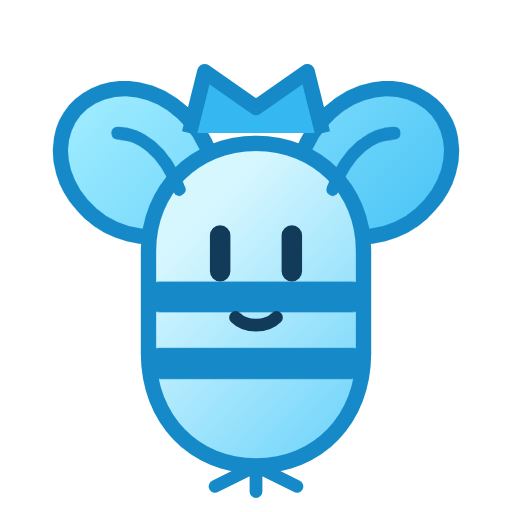
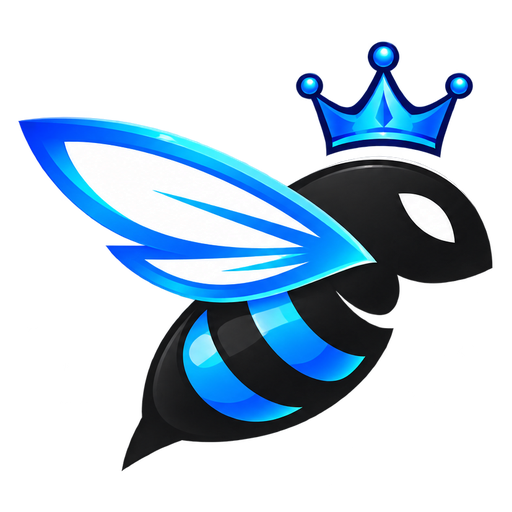
Expand Queenify landing and apply brand assets

diff --git a/src/pages/Landing.tsx b/src/pages/Landing.tsx
@@ -10,8 +10,9 @@ import {
   Sparkles, Smartphone, MessageCircle, Megaphone, Menu, X,
   TrendingUp, BarChart3, Globe, Bot, Rocket, ArrowRight,
   CheckCircle2, Play, Target, Layers, RefreshCcw, Gauge,
+  ShieldCheck, CircleDashed, CircleAlert, WalletCards,
 } from "lucide-react";
-import queenifyBee from "@/assets/queenify-bee-blue.svg";
+import queenifyBee from "@/assets/queenify-bee-blue.png";
 import dashboardMockup from "@/assets/dashboard-mockup.jpg";
 import mobileMockup from "@/assets/mobile-mockup.jpg";
 
@@ -126,11 +127,29 @@ const faqs = [
 ];
 
 const navLinks = [
+  { label: "Como funciona", href: "#como-funciona" },
   { label: "Recursos", href: "#features" },
+  { label: "Simulador", href: "#simulador" },
+  { label: "Integrações", href: "#integracoes" },
   { label: "Taxas", href: "#pricing" },
   { label: "FAQ", href: "#faq" },
   { label: "Ajuda", href: "/ajuda" },
   { label: "Sobre nós", href: "/sobre" },
+];
+
+const workflowSteps = [
+  { title: "Organize o produto", desc: "Reúna nome, descrição, materiais de entrega e informações que o cliente precisa antes de comprar.", icon: Layers },
+  { title: "Prepare a oferta", desc: "Revise preço, comunicação e apresentação. As opções disponíveis podem variar durante a prévia.", icon: PaintBucket },
+  { title: "Valide o pagamento", desc: "Conecte um provedor e teste aprovação, falha, reembolso e notificações antes de aceitar vendas reais.", icon: WalletCards },
+  { title: "Acompanhe os dados", desc: "Quando os eventos estiverem conectados, use os registros para entender conversão e melhorar a oferta.", icon: BarChart3 },
+];
+
+const integrationStatus = [
+  { name: "Supabase Auth", status: "Configurado para a prévia", detail: "Login disponível. Recuperação de conta e regras de acesso ainda precisam de validação completa.", icon: ShieldCheck, tone: "ready" },
+  { name: "Pagamentos", status: "Pendente", detail: "Falta concluir a configuração do provedor e testar o ciclo de cobrança, reembolso e repasse.", icon: WalletCards, tone: "pending" },
+  { name: "Meta Pixel e TikTok", status: "Em preparação", detail: "Dependem de credenciais, eventos corretos e validação no ambiente de cada plataforma.", icon: Target, tone: "pending" },
+  { name: "Google Ads", status: "Pausado", detail: "A integração deve permanecer desativada até configurar e validar o envio de conversões.", icon: CircleAlert, tone: "paused" },
+  { name: "QueenIA", status: "Pendente", detail: "A interface existe; respostas automáticas dependem da publicação da função e da chave do provedor de IA.", icon: Bot, tone: "pending" },
 ];
 
 /* ─── Parallax hook for sections ─── */
@@ -888,6 +907,8 @@ const Landing = () => {
   const { session, loading } = useAuth();
   const [openFaq, setOpenFaq] = useState<number | null>(null);
   const [mobileMenuOpen, setMobileMenuOpen] = useState(false);
+  const [simulatorPrice, setSimulatorPrice] = useState("297");
+  const [simulatorOrders, setSimulatorOrders] = useState("20");
   const heroRef = useRef<HTMLElement>(null);
   const { scrollYProgress: heroScroll } = useScroll({ target: heroRef, offset: ["start start", "end start"] });
   const heroY = useTransform(heroScroll, [0, 1], [0, 150]);
@@ -900,6 +921,10 @@ const Landing = () => {
     "Organize seus produtos digitais.",
     "Acompanhe os registros da conta.",
   ], 70, 35, 2200);
+  const safePrice = Math.min(Math.max(Number(simulatorPrice) || 0, 0), 1_000_000);
+  const safeOrders = Math.min(Math.max(Number(simulatorOrders) || 0, 0), 1_000_000);
+  const estimatedGross = safePrice * safeOrders;
+  const formattedGross = new Intl.NumberFormat("pt-BR", { style: "currency", currency: "BRL" }).format(estimatedGross);
 
   // Parallax refs for sections
   const whyParallax = useParallax(60);
@@ -1111,6 +1136,122 @@ const Landing = () => {
             <CinematicShowcase />
           </div>
         </motion.div>
+      </section>
+
+      {/* ─── How Queenify is intended to fit the creator workflow ─── */}
+      <section id="como-funciona" className="section-light py-20 sm:py-28 px-4 border-t border-border relative">
+        <div className="max-w-7xl mx-auto relative z-10">
+          <motion.div initial="hidden" whileInView="visible" viewport={{ once: true, amount: 0.15 }} variants={stagger}>
+            <motion.div variants={fadeUp} className="text-center max-w-3xl mx-auto mb-14">
+              <span className="text-xs font-bold uppercase tracking-widest text-primary mb-4 block">Um caminho claro para o produtor</span>
+              <h2 className="text-3xl sm:text-4xl lg:text-5xl font-display font-bold">Da ideia à operação, em etapas</h2>
+              <p className="text-muted-foreground mt-4 leading-relaxed">
+                Este é o fluxo que a Queenify está sendo preparada para apoiar. As etapas de cobrança e acompanhamento integrado só estarão prontas após as conexões e testes indicados abaixo.
+              </p>
+            </motion.div>
+            <div className="grid grid-cols-1 sm:grid-cols-2 xl:grid-cols-4 gap-4">
+              {workflowSteps.map((step, index) => (
+                <motion.article key={step.title} variants={fadeUp} className="glass-card p-6 relative overflow-hidden group hover:border-primary/35 transition-colors">
+                  <div className="flex items-center justify-between mb-6">
+                    <div className="w-11 h-11 rounded-xl bg-primary/10 flex items-center justify-center text-primary group-hover:scale-105 transition-transform">
+                      <step.icon className="w-5 h-5" />
+                    </div>
+                    <span className="text-xs font-bold tracking-[0.18em] text-muted-foreground">0{index + 1}</span>
+                  </div>
+                  <h3 className="font-display text-lg font-bold mb-2">{step.title}</h3>
+                  <p className="text-sm text-muted-foreground leading-relaxed">{step.desc}</p>
+                </motion.article>
+              ))}
+            </div>
+            <motion.div variants={fadeUp} className="mt-7 flex flex-col sm:flex-row items-center justify-between gap-4 rounded-2xl border border-primary/20 bg-primary/[0.05] p-5 sm:px-7">
+              <div className="flex items-start gap-3">
+                <CircleAlert className="w-5 h-5 text-primary shrink-0 mt-0.5" />
+                <p className="text-sm text-muted-foreground"><strong className="text-foreground">Prévia em evolução:</strong> conheça as telas, mas não aceite pagamentos reais até que o provedor esteja ativo e validado.</p>
+              </div>
+              <button onClick={() => document.getElementById("integracoes")?.scrollIntoView({ behavior: "smooth" })} className="text-sm font-semibold text-primary hover:underline shrink-0">
+                Ver integrações <ArrowRight className="w-4 h-4 inline ml-1" />
+              </button>
+            </motion.div>
+          </motion.div>
+        </div>
+      </section>
+
+      {/* ─── Gross revenue estimator ─── */}
+      <section id="simulador" className="py-20 sm:py-28 px-4 border-t border-border relative overflow-hidden">
+        <div aria-hidden className="absolute -top-24 right-0 w-[420px] h-[420px] rounded-full bg-primary/[0.08] blur-[130px] pointer-events-none" />
+        <div className="max-w-6xl mx-auto relative z-10">
+          <div className="grid lg:grid-cols-[1fr_0.9fr] gap-10 lg:gap-16 items-center">
+            <motion.div initial="hidden" whileInView="visible" viewport={{ once: true, amount: 0.2 }} variants={stagger}>
+              <motion.span variants={fadeUp} className="text-xs font-bold uppercase tracking-widest text-primary mb-4 block">Ferramenta interativa</motion.span>
+              <motion.h2 variants={fadeUp} className="text-3xl sm:text-4xl lg:text-5xl font-display font-bold leading-tight">Faça uma conta rápida para sua oferta</motion.h2>
+              <motion.p variants={fadeUp} className="text-muted-foreground mt-4 leading-relaxed max-w-xl">
+                Ajuste o preço e a quantidade hipotética de pedidos para visualizar o faturamento bruto. É uma simulação matemática, sem previsão de vendas e sem descontar taxas, reembolsos, impostos ou outros custos.
+              </motion.p>
+              <motion.div variants={fadeUp} className="mt-7 flex flex-wrap gap-2" aria-label="Exemplos de preço para o simulador">
+                {[97, 297, 497].map((price) => (
+                  <button key={price} type="button" onClick={() => setSimulatorPrice(String(price))} className="rounded-full border border-border px-3 py-1.5 text-xs font-medium text-muted-foreground hover:border-primary/50 hover:text-foreground transition-colors">
+                    Usar {new Intl.NumberFormat("pt-BR", { style: "currency", currency: "BRL", maximumFractionDigits: 0 }).format(price)}
+                  </button>
+                ))}
+              </motion.div>
+            </motion.div>
+
+            <motion.div initial={{ opacity: 0, y: 24 }} whileInView={{ opacity: 1, y: 0 }} viewport={{ once: true, amount: 0.2 }} transition={{ duration: 0.6 }} className="glass-card p-6 sm:p-8 border-primary/20 shadow-xl shadow-primary/[0.06]">
+              <div className="grid sm:grid-cols-2 gap-4">
+                <label className="block">
+                  <span className="block text-sm font-semibold mb-2">Preço por pedido (R$)</span>
+                  <input aria-label="Preço por pedido em reais" type="number" min="0" max="1000000" step="0.01" inputMode="decimal" value={simulatorPrice} onChange={(event) => setSimulatorPrice(event.currentTarget.value)} className="w-full rounded-xl border border-border bg-background/80 px-4 py-3 text-foreground outline-none focus:border-primary focus:ring-2 focus:ring-primary/20" />
+                </label>
+                <label className="block">
+                  <span className="block text-sm font-semibold mb-2">Pedidos hipotéticos</span>
+                  <input aria-label="Quantidade hipotética de pedidos" type="number" min="0" max="1000000" step="1" inputMode="numeric" value={simulatorOrders} onChange={(event) => setSimulatorOrders(event.currentTarget.value)} className="w-full rounded-xl border border-border bg-background/80 px-4 py-3 text-foreground outline-none focus:border-primary focus:ring-2 focus:ring-primary/20" />
+                </label>
+              </div>
+              <div aria-live="polite" className="mt-6 rounded-2xl bg-primary/[0.09] border border-primary/15 p-5 sm:p-6">
+                <div className="text-xs uppercase tracking-widest font-bold text-muted-foreground mb-2">Faturamento bruto estimado</div>
+                <div className="text-3xl sm:text-4xl font-display font-bold text-primary tabular-nums">{formattedGross}</div>
+                <p className="text-xs text-muted-foreground mt-3">Exemplo ilustrativo. Não representa receita líquida nem garante conversões.</p>
+              </div>
+              <button type="button" onClick={() => { setSimulatorPrice("297"); setSimulatorOrders("20"); }} className="mt-4 text-sm text-muted-foreground hover:text-foreground transition-colors underline underline-offset-4">Restaurar exemplo</button>
+            </motion.div>
+          </div>
+        </div>
+      </section>
+
+      {/* ─── Integration readiness ─── */}
+      <section id="integracoes" className="section-light py-20 sm:py-28 px-4 border-t border-border relative">
+        <div className="max-w-7xl mx-auto relative z-10">
+          <motion.div initial="hidden" whileInView="visible" viewport={{ once: true, amount: 0.15 }} variants={stagger}>
+            <motion.div variants={fadeUp} className="max-w-3xl mb-12">
+              <span className="text-xs font-bold uppercase tracking-widest text-primary mb-4 block">Transparência de integração</span>
+              <h2 className="text-3xl sm:text-4xl lg:text-5xl font-display font-bold">O que está pronto e o que falta conectar</h2>
+              <p className="text-muted-foreground mt-4 leading-relaxed">A situação abaixo descreve a prévia atual. Cada integração precisa de configuração, testes de segurança e validação ponta a ponta antes de uso comercial.</p>
+            </motion.div>
+            <div className="grid sm:grid-cols-2 xl:grid-cols-3 gap-4">
+              {integrationStatus.map((integration) => (
+                <motion.article key={integration.name} variants={fadeUp} className="glass-card p-5 sm:p-6 h-full">
+                  <div className="flex items-start justify-between gap-3 mb-4">
+                    <div className="w-10 h-10 rounded-xl bg-primary/10 flex items-center justify-center text-primary"><integration.icon className="w-5 h-5" /></div>
+                    <span className={`rounded-full px-2.5 py-1 text-[11px] font-semibold ${integration.tone === "ready" ? "bg-emerald-500/10 text-emerald-600 dark:text-emerald-400" : integration.tone === "paused" ? "bg-muted text-muted-foreground" : "bg-amber-500/10 text-amber-700 dark:text-amber-400"}`}>
+                      {integration.status}
+                    </span>
+                  </div>
+                  <h3 className="font-display text-lg font-bold mb-2">{integration.name}</h3>
+                  <p className="text-sm text-muted-foreground leading-relaxed">{integration.detail}</p>
+                </motion.article>
+              ))}
+            </div>
+            <motion.div variants={fadeUp} className="mt-8 rounded-2xl border border-border bg-background/70 p-6 sm:p-8">
+              <div className="flex items-center gap-3 mb-5"><CircleDashed className="w-5 h-5 text-primary" /><h3 className="font-display text-xl font-bold">Checklist antes de liberar vendas</h3></div>
+              <div className="grid sm:grid-cols-2 gap-x-8 gap-y-3 text-sm text-muted-foreground">
+                {["Validar checkout em ambiente de testes, incluindo falhas e reembolsos", "Revisar acesso por usuário, políticas do banco e proteção contra abuso", "Confirmar taxas, prazos, repasses e informações legais", "Testar webhooks, notificações, suporte e monitoramento de incidentes"].map((item) => (
+                  <div key={item} className="flex gap-2.5 items-start"><CircleDashed className="w-4 h-4 text-primary shrink-0 mt-0.5" /><span>{item}</span></div>
+                ))}
+              </div>
+              <p className="text-xs text-muted-foreground mt-5">Os itens são critérios de prontidão; a lista não indica que uma certificação ou auditoria externa já tenha sido concluída.</p>
+            </motion.div>
+          </motion.div>
+        </div>
       </section>
 
       {/* ─── Why Queenify – Split Layout ─── */}

diff --git a/index.html b/index.html
@@ -3,9 +3,12 @@
   <head>
     <meta charset="UTF-8" />
     <meta name="viewport" content="width=device-width, initial-scale=1.0, viewport-fit=cover" />
-    <title>Queenify - Plataforma de Vendas Digitais</title>
+    <title>Queenify | Plataforma de Produtos Digitais</title>
     <meta name="description" content="Conheça a prévia da Queenify para organizar produtos digitais. Cobranças e integrações estão em preparação." />
     <meta name="author" content="Queenify" />
+    <link rel="canonical" href="https://queenify.onrender.com/" />
+    <link rel="icon" href="%BASE_URL%favicon.ico" sizes="any" />
+    <link rel="icon" type="image/png" sizes="32x32" href="%BASE_URL%favicon-32.png" />
 
     <meta name="referrer" content="strict-origin-when-cross-origin" />
     <!-- The hosting provider must also serve the response headers in vercel.json or public/_headers. -->
@@ -15,20 +18,24 @@
     <meta name="apple-mobile-web-app-capable" content="yes" />
     <meta name="apple-mobile-web-app-status-bar-style" content="black-translucent" />
     <meta name="apple-mobile-web-app-title" content="Queenify" />
-    <link rel="apple-touch-icon" href="%BASE_URL%queenify-192.png" />
+    <link rel="apple-touch-icon" sizes="192x192" href="%BASE_URL%queenify-192.png" />
     <script src="%BASE_URL%github-pages-redirect.js"></script>
 
     <!-- Theme -->
     <meta name="theme-color" content="#35b8f2" />
 
     <meta property="og:title" content="Queenify" />
-    <meta property="og:description" content="Plataforma completa para vender produtos digitais." />
+    <meta property="og:site_name" content="Queenify" />
+    <meta property="og:url" content="https://queenify.onrender.com/" />
+    <meta property="og:description" content="Conheça a prévia da Queenify. Recursos de cobrança e integrações estão em preparação." />
     <meta property="og:type" content="website" />
-    <meta property="og:image" content="https://lovable.dev/opengraph-image-p98pqg.png" />
+    <meta property="og:image" content="https://queenify.onrender.com/queenify-512.png" />
 
     <meta name="twitter:card" content="summary_large_image" />
     <meta name="twitter:site" content="@Queenify" />
-    <meta name="twitter:image" content="https://lovable.dev/opengraph-image-p98pqg.png" />
+    <meta name="twitter:title" content="Queenify | Plataforma de Produtos Digitais" />
+    <meta name="twitter:description" content="Conheça a prévia da Queenify. Recursos de cobrança e integrações estão em preparação." />
+    <meta name="twitter:image" content="https://queenify.onrender.com/queenify-512.png" />
   </head>
 
   <body>

diff --git a/src/pages/FAQ.tsx b/src/pages/FAQ.tsx
@@ -2,7 +2,7 @@ import { Link, useSearchParams } from "react-router-dom";
 import { useState } from "react";
 import { motion, AnimatePresence } from "framer-motion";
 import { ChevronDown, Search, HelpCircle, ShoppingCart, CreditCard, Users, Shield, Settings, Smartphone, Headphones } from "lucide-react";
-import queenifyBee from "@/assets/queenify-bee-blue.svg";
+import queenifyBee from "@/assets/queenify-bee-blue.png";
 import BackButton from "@/components/BackButton";
 
 const fadeUp = { hidden: { opacity: 0, y: 30 }, visible: { opacity: 1, y: 0, transition: { duration: 0.5 } } };

diff --git a/src/pages/Ajuda.tsx b/src/pages/Ajuda.tsx
@@ -3,7 +3,7 @@ import { useState, useRef, useEffect } from "react";
 import { motion } from "framer-motion";
 import { Headphones, MessageCircle, Mail, BookOpen, Video, ArrowRight, Clock, ShieldCheck, Send, Bot, Search, X } from "lucide-react";
 import ReactMarkdown from "react-markdown";
-import queenifyBee from "@/assets/queenify-bee-blue.svg";
+import queenifyBee from "@/assets/queenify-bee-blue.png";
 import BackButton from "@/components/BackButton";
 
 const fadeUp = { hidden: { opacity: 0, y: 30 }, visible: { opacity: 1, y: 0, transition: { duration: 0.5 } } };

diff --git a/src/pages/Checkout.tsx b/src/pages/Checkout.tsx
@@ -4,7 +4,7 @@ import { supabase } from "@/integrations/supabase/client";
 import { trackPageView } from "@/hooks/usePageTracking";
 import { useUtmCapture, getStoredUtms } from "@/hooks/useUtmCapture";
 import { CreditCard, QrCode, FileText, ShieldCheck, Lock, ChevronLeft, Check, Plus, Package, Star, RefreshCw, Zap } from "lucide-react";
-import queenifyBee from "@/assets/queenify-bee-blue.svg";
+import queenifyBee from "@/assets/queenify-bee-blue.png";
 import { toast } from "sonner";
 import { createCardToken, loadMercadoPago } from "@/lib/mercadopago";
 

diff --git a/src/pages/CursosQueenify.tsx b/src/pages/CursosQueenify.tsx
@@ -1,7 +1,7 @@
 import { Link, useNavigate } from "react-router-dom";
 import { motion } from "framer-motion";
 import { GraduationCap, Play, Clock, Star, Lock, ArrowRight, BookOpen, TrendingUp, Palette, Users } from "lucide-react";
-import queenifyBee from "@/assets/queenify-bee-blue.svg";
+import queenifyBee from "@/assets/queenify-bee-blue.png";
 import BackButton from "@/components/BackButton";
 
 const fadeUp = { hidden: { opacity: 0, y: 30 }, visible: { opacity: 1, y: 0, transition: { duration: 0.5 } } };

diff --git a/src/components/DashboardHeader.tsx b/src/components/DashboardHeader.tsx
@@ -5,7 +5,7 @@ import { useNavigate } from "react-router-dom";
 import { useIsMobile } from "@/hooks/use-mobile";
 import { useAuth } from "@/contexts/AuthContext";
 import { supabase } from "@/integrations/supabase/client";
-import queenifyBee from "@/assets/queenify-bee-blue.svg";
+import queenifyBee from "@/assets/queenify-bee-blue.png";
 import { getUserLevel, levels } from "@/components/LevelCard";
 import frameBronze from "@/assets/frame-bronze.png";
 import frameSilver from "@/assets/frame-silver.png";

diff --git a/src/pages/SobreNos.tsx b/src/pages/SobreNos.tsx
@@ -1,7 +1,7 @@
 import { Link } from "react-router-dom";
 import { motion } from "framer-motion";
 import { Heart, Target, Eye, Users, Sparkles, ShieldCheck, Globe, Award } from "lucide-react";
-import queenifyBee from "@/assets/queenify-bee-blue.svg";
+import queenifyBee from "@/assets/queenify-bee-blue.png";
 import BackButton from "@/components/BackButton";
 
 const fadeUp = { hidden: { opacity: 0, y: 30 }, visible: { opacity: 1, y: 0, transition: { duration: 0.5 } } };

diff --git a/src/pages/PublicProfile.tsx b/src/pages/PublicProfile.tsx
@@ -2,7 +2,7 @@ import { useEffect, useState } from "react";
 import { useParams, Link } from "react-router-dom";
 import { supabase } from "@/integrations/supabase/client";
 import { Instagram, Youtube, ExternalLink, Package } from "lucide-react";
-import queenifyBee from "@/assets/queenify-bee-blue.svg";
+import queenifyBee from "@/assets/queenify-bee-blue.png";
 
 interface Profile {
   display_name: string | null;

diff --git a/src/pages/Signup.tsx b/src/pages/Signup.tsx
@@ -5,7 +5,7 @@ import { logSecurityEvent } from "@/lib/securityLogger";
 import { toast } from "sonner";
 import { Mail, Lock, Eye, EyeOff, User, Calendar } from "lucide-react";
 import { Checkbox } from "@/components/ui/checkbox";
-import queenifyBee from "@/assets/queenify-bee-blue.svg";
+import queenifyBee from "@/assets/queenify-bee-blue.png";
 
 const Signup = () => {
   const navigate = useNavigate();

diff --git a/vite.config.ts b/vite.config.ts
@@ -31,7 +31,8 @@ export default defineConfig(({ mode }) => ({
       manifest: {
         name: "Queenify",
         short_name: "Queenify",
-        description: "Plataforma de vendas digitais",
+        description: "Conheça a prévia Queenify para organizar produtos digitais.",
+        lang: "pt-BR",
         theme_color: "#35b8f2",
         background_color: "#0b1018",
         display: "standalone",

diff --git a/src/pages/Login.tsx b/src/pages/Login.tsx
@@ -3,7 +3,7 @@ import { useNavigate, Link } from "react-router-dom";
 import { supabase } from "@/integrations/supabase/client";
 import { toast } from "sonner";
 import { Mail, Lock, Eye, EyeOff, Shield } from "lucide-react";
-import queenifyBee from "@/assets/queenify-bee-blue.svg";
+import queenifyBee from "@/assets/queenify-bee-blue.png";
 
 const Login = () => {
   const navigate = useNavigate();
